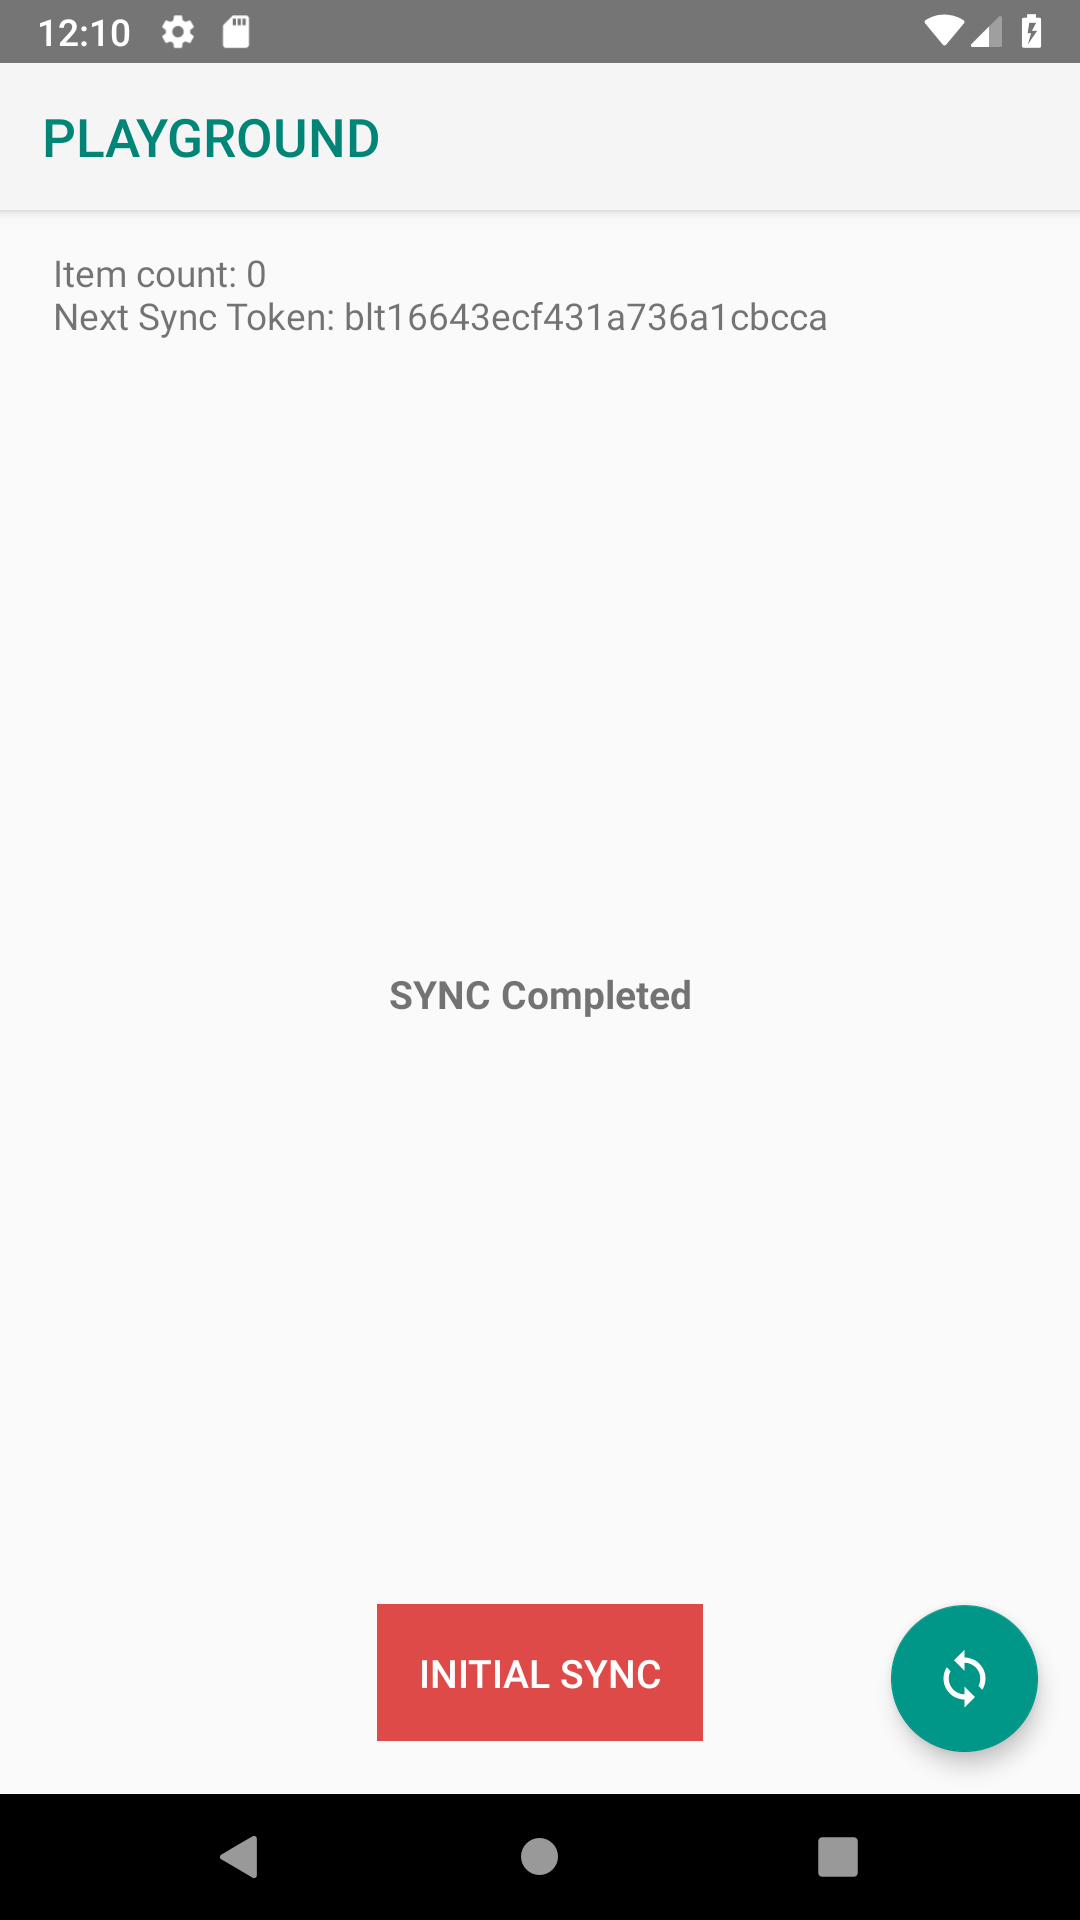
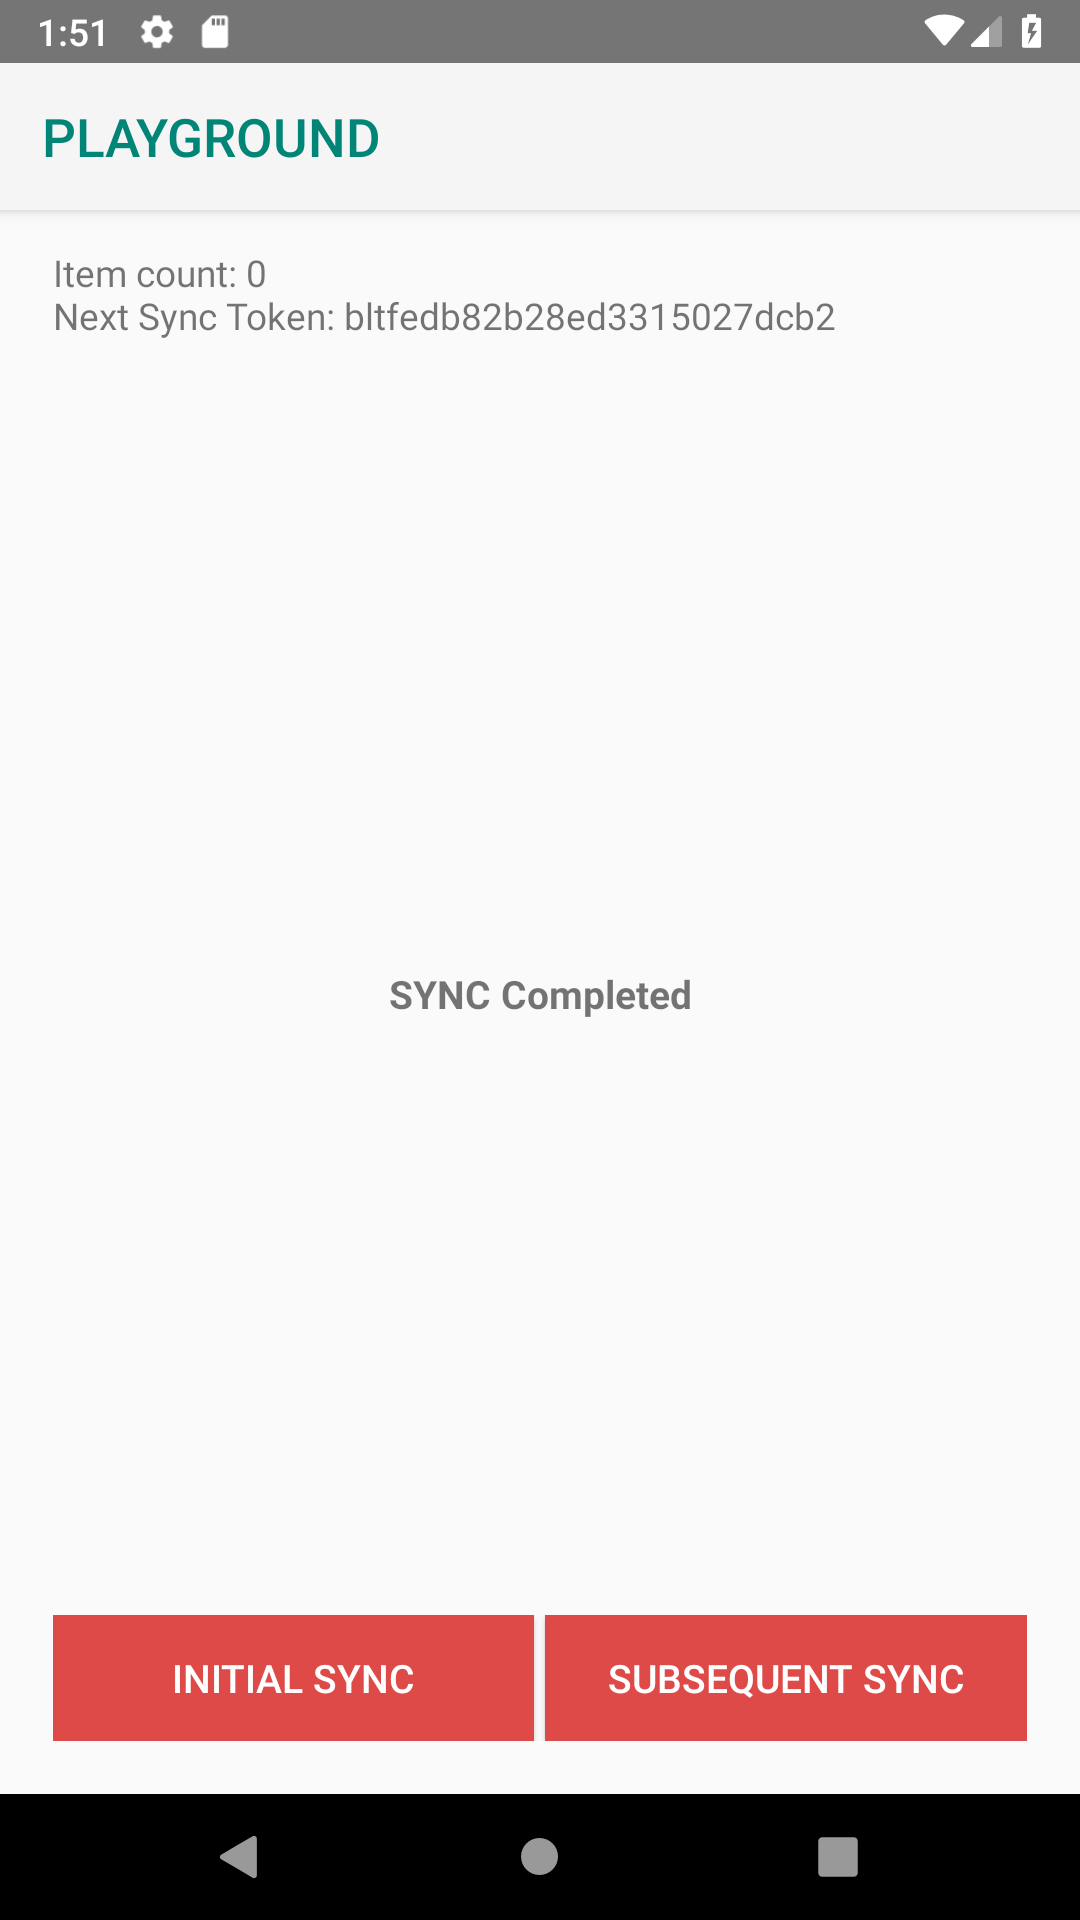
screenshot added

Changed region(s): [[0.0306, 0.8125, 0.9778, 0.9375], [0.3667, 0.1562, 0.7639, 0.1875], [0.0611, 0.0, 0.2444, 0.0312]]

diff --git a/app/src/main/java/sync/contentstack/playground/MainActivity.java b/app/src/main/java/sync/contentstack/playground/MainActivity.java
@@ -40,13 +40,20 @@ public class MainActivity extends AppCompatActivity {
         setSupportActionBar(binding.toolbar);
         stack = BaseApp.getStack();
 
-        FloatingActionButton fab = findViewById(R.id.fab);
-        fab.setOnClickListener(new View.OnClickListener() {
-            @Override
-            public void onClick(View view) {
-                subsquentsync();
-            }
-        });
+    }
+
+
+    // Click handler for Initial click
+    public void onInitialClick(View view) {
+        binding.container.tvStatus.setText("Loading...");
+        initiateSync();
+    }
+
+
+    // Click handler for Subsequent click
+    public void onSubsequentSync(View view){
+        binding.container.tvStatus.setText("Loading...");
+        subsquentsync();
     }
 
 
@@ -68,23 +75,21 @@ public class MainActivity extends AppCompatActivity {
 
 
 
-
-
     /**
      * This request is made to get updated data from the stack
      */
-    private void deltaRequestWithSyncToken(String syncToken){
+    private void subsequentSync(String syncToken){
         stack.syncToken(syncToken, new SyncResultCallBack() {
             @SuppressLint("SetTextI18n")
             @Override
             public void onCompletion(SyncStack syncStack, Error error) {
 
-                if (error == null){
+                if (error == null)
+                {
                     showData(syncStack);
                 }
             }
         });
-
     }
 
 
@@ -94,8 +99,7 @@ public class MainActivity extends AppCompatActivity {
 
         String syncToken = BaseApp.getSyncToken();
         if (syncToken != null){
-            binding.container.tvStatus.setText("Loading...");
-            deltaRequestWithSyncToken(syncToken);
+            subsequentSync(syncToken);
         }else {
             binding.container.tvStatus.setText("You have not initialize sync call, initialise sync first");
         }
@@ -103,15 +107,9 @@ public class MainActivity extends AppCompatActivity {
     }
 
 
-    // Click handler for Initial click
-    public void onInitialClick(View view) {
-        binding.container.tvStatus.setText("Loading...");
-        initiateSync();
-    }
-
-
 
     private void showData(SyncStack syncStack){
+
         new Handler().postDelayed(new Runnable() {
             @Override
             public void run() {
